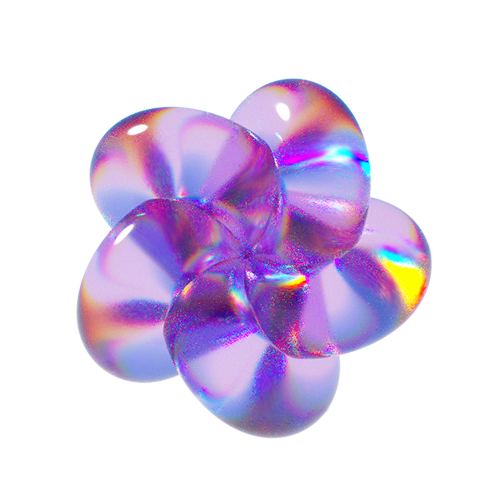
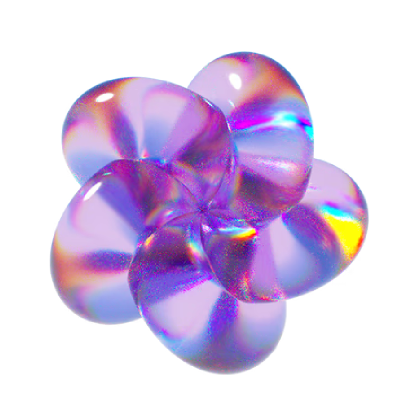
refactor: 이미지 변경, 홈 이동 모달 수정

Changed region(s): [[0.0929, 0.1238, 0.8976, 0.8976]]

diff --git a/src/components/HomeNavigateConfirmModal/HomeNavigateConfirmModal.tsx b/src/components/HomeNavigateConfirmModal/HomeNavigateConfirmModal.tsx
@@ -1,10 +1,5 @@
-import { useState } from "react";
-
-import classNames from "classnames";
-
 import styles from "@/components/HomeNavigateConfirmModal/HomeNavigateConfirmModal.module.scss";
 import Button from "@/components/ui/Button/Button";
-import Icon from "@/components/ui/Icon/Icon";
 import Modal from "@/components/ui/Modal/Modal";
 import Text from "@/components/ui/Text/Text";
 
@@ -25,13 +20,6 @@ const HomeNavigateConfirmModal = ({ isOpen, handleClose }: HomeNavigateConfirmMo
   const { resetGenerateReviewData } = useGenerateReviewStore();
   const { resetCreateReviewData } = useCreateReviewStore();
   const { resetScanData } = useScanDataStore();
-
-  // 이후 상태 초기값 재설정
-  const [isShowButtonChecked, setIsShowButtonChecked] = useState(false);
-
-  const handleShowButtonClick = () => {
-    setIsShowButtonChecked((prev) => !prev);
-  };
 
   const handleNavigateHome = () => {
     handleClose();
@@ -54,17 +42,6 @@ const HomeNavigateConfirmModal = ({ isOpen, handleClose }: HomeNavigateConfirmMo
           <Button text="아니요" variant="tertiary" onClick={handleClose} />
           <Button text="네" variant="primary" onClick={handleNavigateHome} />
         </div>
-        <button
-          className={classNames(styles.ShowButtonWrapper, {
-            [styles.isChecked]: isShowButtonChecked,
-          })}
-          onClick={handleShowButtonClick}
-        >
-          <Icon name="checkCircle" />
-          <Text variant="bodyXsm" color={isShowButtonChecked ? "primary" : "tertiary"}>
-            다시 안볼래요
-          </Text>
-        </button>
       </div>
     </Modal>
   );

diff --git a/src/components/HomeNavigateConfirmModal/HomeNavigateConfirmModal.module.scss b/src/components/HomeNavigateConfirmModal/HomeNavigateConfirmModal.module.scss
@@ -19,24 +19,3 @@
     width: 8.75rem;
   }
 }
-
-.ShowButtonWrapper {
-  display: flex;
-  align-items: flex-end;
-  justify-content: center;
-  gap: 0.375rem;
-  margin-top: 0.25rem;
-  width: 6.6875rem;
-  height: 1.75rem;
-  cursor: pointer;
-
-  & > svg > path {
-    fill: rgba(0, 0, 0, 0.15);
-  }
-
-  &.isChecked {
-    & > svg > path {
-      fill: rgb(54, 54, 66);
-    }
-  }
-}
